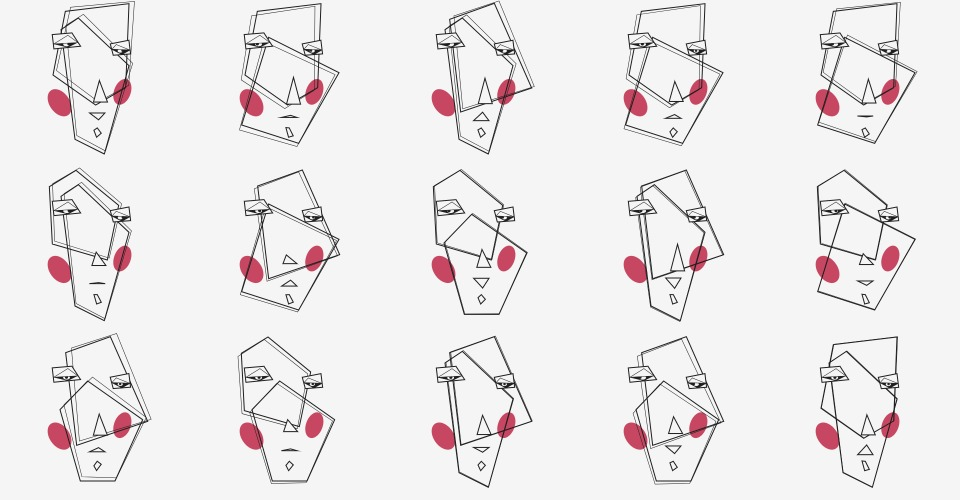
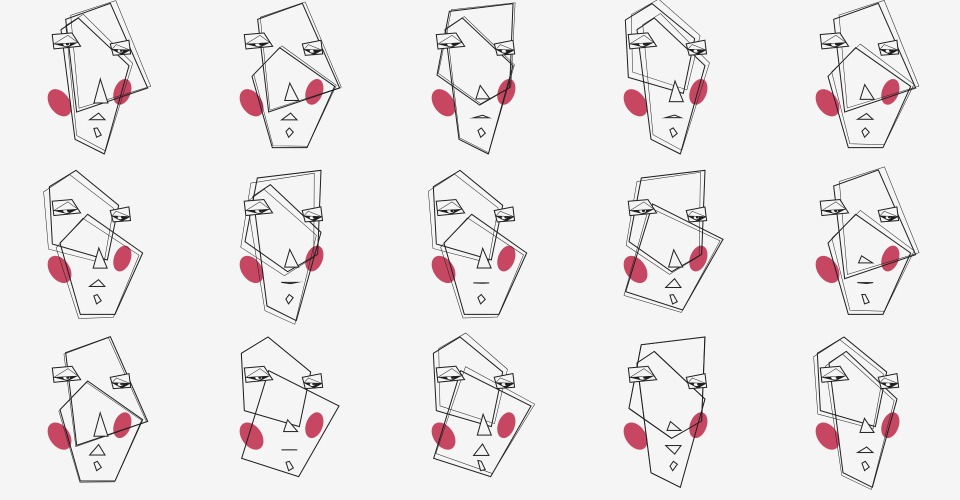
Added focus and mean to achieve distribution across eye direction and mouth curvature

diff --git a/sketch.js b/sketch.js
@@ -198,9 +198,9 @@ function draw() {
       // randomising the parameters
       var face_shape_value = getRandomFaceShapes(),
           face_randomise_value = focusedRandom(-2,2),
-          mouth_value = focusedRandom(-6,6),
+          mouth_value = focusedRandom(-6,6,1,3),
           nose_value = focusedRandom(-2,2),
-          eye_value = focusedRandom(-3,3),
+          eye_value = focusedRandom(-3,3,1.5,2),
           chin_value = focusedRandom(-3,3);
 
       // drawing the face

diff --git a/README.md b/README.md
@@ -1,8 +1,3 @@
 ## PS1 MDDN 342 2017
 
-I have decided on the face style I wish to continue with for this project.
-It's an abstraction of a particular tattoo artist's style I really enjoy.
-
-I have now set up my 3x5 grid, and started using the focusedRandom() method to achieve more variety in my faces.
-The randomisation in this composition consists of:
-the combination of the face shapes, mouth 'curvature', pupil direction, and nose and chin sizing and positioning.
+Using the focus and mean values of the focusedRandom function, I have begun to refine some distributions in my sketch. The first facial component I decided to skew the randomness of was the pupil direction. I wanted the faces to predominantly look to the right, so added the focus and mean values accordingly. I then repeated this for the randomness of the mouth 'curvature'. I want the faces to appear mostly disdained or disinterested, so adjusted the values to favour lower mouth corners.
